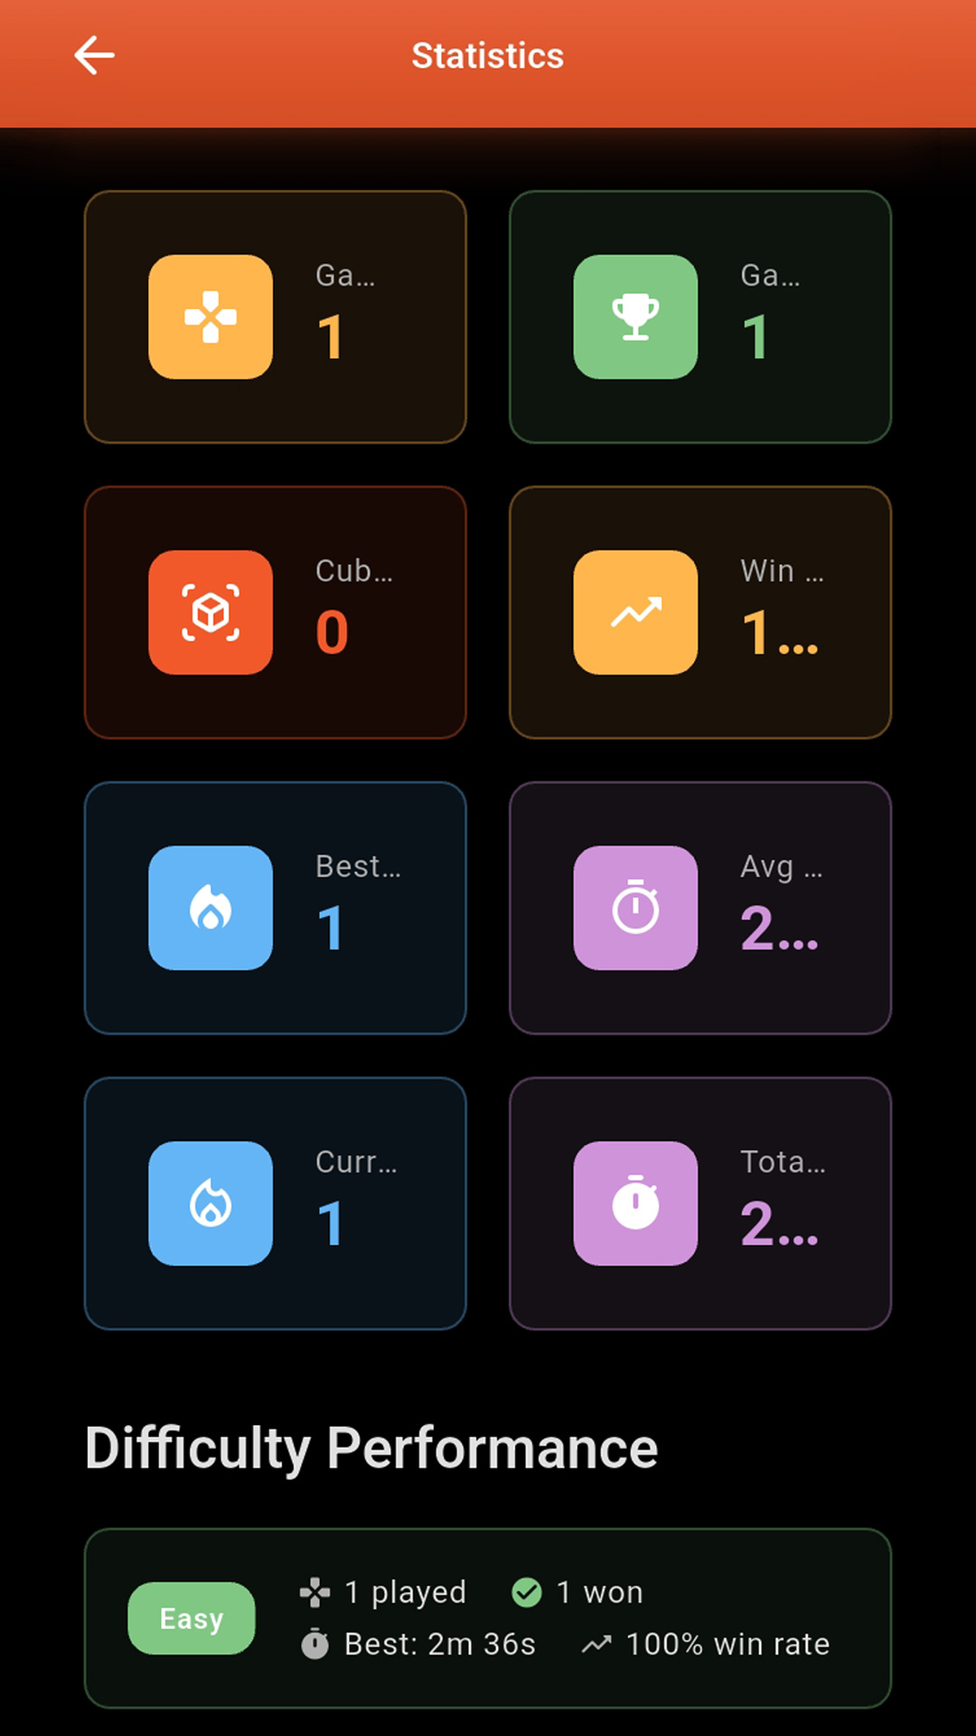
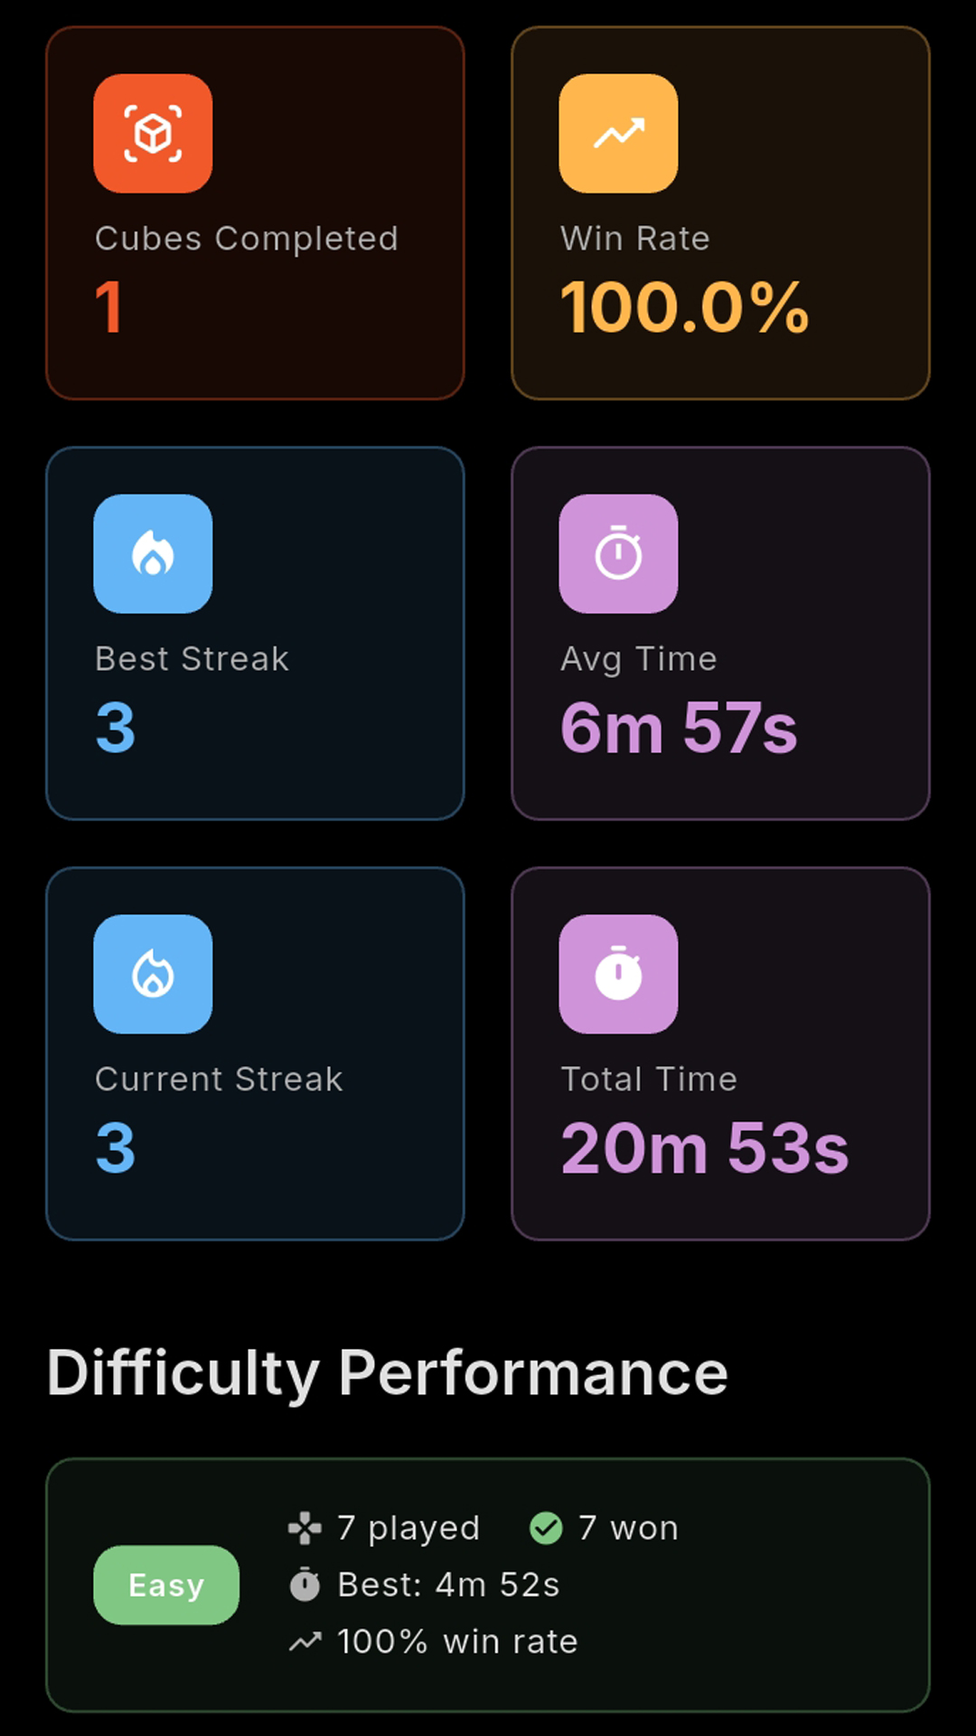
Record production submission; add Play Console answer sheet
1.0.0+4 was submitted for production review on 2026-09-26 (all
countries, managed publishing off, Google Play Games on PC opted out).

- PLAY_CONSOLE_ANSWERS.md: every Play Console answer, checked against
  the release build (no INTERNET or AD_ID permission, no SDKs that
  collect data), with the submission status.
- Retaken statistics screenshot with the fixed tiles; status bar
  painted out of the second cube screenshot.
- Full description mentions technique-graded difficulty.
- todolist.md and whatitis.md updated to match Play Console.

diff --git a/store_listing/PLAY_CONSOLE_ANSWERS.md b/store_listing/PLAY_CONSOLE_ANSWERS.md
@@ -1,0 +1,199 @@
+# Play Console answers — M6 3D Sudoku
+
+Every answer needed to get `com.msixv.m6sudoku` from internal testing to a
+production review, in the order Play Console's **Dashboard › Set up your
+app** list presents them. Listing text and artwork are in
+`PLAY_STORE_LISTING.md`.
+
+## Status (updated 2026-09-26, after submission)
+
+Developer account: **MSIXV** (organisation), signed in as tech@msixv.com at
+`https://play.google.com/console/u/2`.
+
+| Step | State |
+|---|---|
+| 0. Before you start | ✅ Production access confirmed, no verification banner |
+| 1. App content | ✅ All 10 declarations done, answers match this sheet |
+| 2. Store settings | ✅ Done: phone number removed, tags added |
+| 3. Main store listing | ✅ Done: cube screenshot first, updated description |
+| 4. Production release | ✅ All countries; version code 4 (1.0.0); `en-GB` notes |
+| 5. Send for review | ✅ **Submitted 2026-09-26** |
+
+Decisions made at submission:
+- **Google Play Games on PC:** opted out.
+- **Managed publishing:** left **off** on purpose, so the app goes live
+  automatically as soon as Google approves it.
+
+**Facts the answers rely on** (checked against the `1.0.0+4` release build,
+2026-09-26):
+
+- The release manifest requests **no** `INTERNET` and **no** `AD_ID`
+  permission. Its only permission is Android's internal
+  `DYNAMIC_RECEIVER_NOT_EXPORTED_PERMISSION`.
+- There are no analytics, crash reporting, ads, in-app purchase, sign-in,
+  location or sharing SDKs. Games, stats and settings are stored only on the
+  device (`shared_preferences`).
+- The only outbound actions are Settings links (privacy policy, terms,
+  support, Rate App) that open in the phone's own browser.
+
+If a future update adds AdMob or Crashlytics, the **Ads**, **Advertising
+ID** and **Data safety** answers below must change in that same update.
+
+---
+
+## 0. Before you start
+
+- [x] **Dashboard / Test and release › Production:** it shows **Create new
+      release**. No closed test or "apply for production access" needed.
+- [x] No account-verification banner.
+- [ ] `support@msixv.com` exists and someone reads it. Play shows it
+      publicly and may email it during review.
+
+## 1. App content (Policy › App content)
+
+### Privacy policy
+`https://msixv.com/games/m6-3d-sudoku/privacy-policy/`
+
+Use the app-specific page, not the studio-wide one; the studio-wide wording
+about ads and telemetry contradicts the Data safety answers below.
+
+### App access
+**All functionality in my app is available without any access
+restrictions.** No login, no membership, no location or age gate.
+
+### Ads
+**No, my app does not contain ads.**
+
+### Content rating
+- Email: `support@msixv.com`
+- Category: **Game** (or "All other app types" if Game isn't offered. It's a
+  puzzle game either way.)
+- Answer **No** to every question: violence, blood, fear/horror, sexual
+  content, nudity, crude humour, profanity, drugs, alcohol, tobacco,
+  gambling or simulated gambling, and so on.
+- Miscellaneous:
+  - Users can interact or exchange content: **No**
+  - Shares the user's location with others: **No**
+  - Allows purchase of digital goods: **No**
+  - Unrestricted internet access or web browser: **No**. The Settings links
+    open the phone's own browser; the app has no browser or network access.
+  - Is a news or educational app: **No**
+- Expected result: **IARC 3+ / PEGI 3 / ESRB Everyone / USK 0**. Click
+  **Apply rating**.
+
+### Target audience and content
+- Age groups: **13–15, 16–17, 18 and over**. Leave every under-13 group
+  unticked. Including under-13s puts the app under the Families policy,
+  which restricts the ads planned for v1.1.
+- "Could your store listing unintentionally appeal to children?" **No.**
+  The listing is a plain puzzle game. If Play pushes back because of the
+  mascot, answer honestly; worst case, the Families policy applies.
+
+### News app
+**No.**
+
+### Data safety
+- Does your app collect or share any of the required user data types?
+  **No.**
+- Play then skips the security and deletion questions. The summary should
+  read **"No data collected · No data shared"**. Submit.
+- Why this is accurate: data kept only on the device and never sent off it
+  isn't "collected" under Play's definition, and the app has no network
+  permission to send anything.
+
+### Advertising ID
+Does your app use advertising ID? **No.** (No `AD_ID` permission in the
+release manifest.)
+
+### Government apps
+**No.**
+
+### Financial features
+**My app doesn't provide any financial features.**
+
+### Health
+**My app does not have any health features.**
+
+Anything else listed under App content, such as photo/video permissions,
+foreground services or exact alarms: **not applicable / No**. The app
+declares none of those permissions.
+
+## 2. Store settings (Grow users › Store presence › Store settings)
+
+- App or game: **Game**
+- Category: **Puzzle**
+- Tags (up to 5, from Play's list): Sudoku, Logic, Brain games, and any of
+  Puzzle, Single player, Offline that are offered
+- Email: `support@msixv.com`
+- Website: optional. Currently set to `https://msixv.com`.
+- Phone: optional. **Removed** (2026-09-26); it would be shown publicly.
+- External marketing: your choice. On is the default and is harmless.
+
+## 3. Main store listing (Grow users › Store presence › Main store listing)
+
+Paste and upload from `PLAY_STORE_LISTING.md`:
+
+- **App name:** `M6 3D Sudoku: Cube Puzzles`
+- **Short description:** from the doc (78 characters)
+- **Full description:** from the doc (2,055 characters)
+- **App icon:** `images/m6_sudoku_logo.png` (512×512, no alpha)
+- **Feature graphic:** `images/m6-sudoku-feature-graphic.jpg` (1024×500)
+- **Phone screenshots**, in this order:
+  1. `images/Screenshot_3d_cube.jpg`
+  2. `images/Screenshot_3d_cube-2.jpg` (status bar now removed)
+  3. `images/Screenshot_game_play.jpg`
+  4. `images/Screenshot_homescreen_dark_mode.jpg`
+  5. `images/Screenshot_daily-challenge.jpg`
+  6. **Your new statistics screenshot.** Take it on `1.0.0+4` after a few
+     finished games, so the tiles show real numbers, not "Ga…" or "Cub…".
+     Don't upload the old `Screenshot_statistics.jpg`.
+- Tablet screenshots: optional. Skip for now.
+
+**As submitted (2026-09-26):** 6 screenshots with a 3D cube one first,
+then home (dark), classic game, daily challenge, select difficulty and
+statistics (fixed tiles). The full description is the updated version from
+`PLAY_STORE_LISTING.md`, and store tags are set.
+- Video: optional. Skip.
+
+## 4. Production release (Test and release › Production)
+
+1. **Countries / regions** tab: add the countries to launch in. Choosing all
+   is simplest; the app has no region-specific content.
+2. **Create new release**, then **Add from library**, and pick version code
+   **4 (1.0.0)**. That's the bundle already on internal testing. Don't
+   rebuild or re-upload it; its debug symbols carry over.
+3. Release notes. The tag must match the listing's default language,
+   **English (United Kingdom)**:
+   ```
+   <en-GB>
+   First release of M6 3D Sudoku: classic Sudoku with five technique-graded difficulties, plus 3D Cube Sudoku — six puzzles on a cube you can spin. Daily challenges, hints that teach, achievements and statistics. No account, no ads, works offline.
+   </en-GB>
+   ```
+4. **Rollout:** if Play offers a rollout percentage, start at **20%**. Play
+   may require a first production release to go to 100%; that's fine for a
+   new app with no users yet.
+5. **Next**, then check the warnings. "No deobfuscation file" is expected
+   and harmless: the Dart code is obfuscated with Flutter's own
+   `--split-debug-info`, not R8 mapping. Then **Save**.
+
+## 5. Send for review (Publishing overview)
+
+- **Before submitting, go to Test and release › Advanced settings › Form
+  factors and opt out of Google Play Games on PC** (done 2026-09-26). PC review expects mouse and keyboard support and resizable windows,
+  and this touch-first app hasn't been tested on PC. Opting in later is
+  easy; a PC-related rejection would delay the whole first review.
+
+- Optional but recommended: turn on **Managed publishing**. Once Google
+  approves, the release waits for you to press **Publish**, instead of
+  going live automatically at a random moment.
+- Click **Send N changes for review**.
+- The first review usually takes a few days to about a week. Watch the
+  inbox of your developer account email, plus `support@msixv.com`, for
+  policy questions.
+
+## 6. After approval
+
+- Publish (if managed publishing is on).
+- Watch **Quality › Android vitals** for crashes and ANRs for a few days;
+  if clean, raise the rollout toward 100%.
+- The next upload must be version code **5** or higher (`1.0.0+5`).

diff --git a/todolist.md b/todolist.md
@@ -1,7 +1,7 @@
 # Going live on Google Play — M6 3D Sudoku
 
-Package `com.msixv.m6sudoku` · version `1.0.0+4` (live on internal testing) ·
-last updated 2026-09-26
+Package `com.msixv.m6sudoku` · version `1.0.0+4` · **submitted for production
+review 2026-09-26** · last updated 2026-09-26
 
 `[x]` done · `[ ]` to do · ⚠ needs checking
 
@@ -11,8 +11,10 @@ last updated 2026-09-26
 
 - [x] Google Play Console developer account (organisation — so **no**
       12-tester / 14-day closed-test requirement)
-- [ ] ⚠ Confirm the organisation account is fully verified (D-U-N-S,
-      identity, contact details) — Play Console shows a banner if not
+- [x] Organisation account ("MSIXV", signed in as tech@msixv.com at
+      `play.google.com/console/u/2`) — no verification banner; Play says
+      all its apps are registered for Android developer verification
+      (checked 2026-09-26)
 - [x] Upload keystore exists (`android/app/keystore/upload-keystore.jks`,
       passwords in `android/key.properties`, both untracked)
 - [ ] **Back up the keystore + passwords outside the repo** (password
@@ -65,9 +67,10 @@ last updated 2026-09-26
 - [x] 3D cube screenshots added and placed first
 - [x] Fixed the truncated statistics tiles ("Ga…", "Cub…", "1…") seen in
       the statistics screenshot
-- [ ] **Retake the statistics screenshot** on a build with that fix
-- [ ] Crop the status bar off `Screenshot_3d_cube-2.jpg` (or retake with
-      notifications cleared)
+- [x] Statistics screenshot retaken — the one in Play Console already shows
+      the fixed, untruncated tiles
+- [x] Removed the status bar from `Screenshot_3d_cube-2.jpg` (painted out,
+      still 1080×1920)
 - [x] Feature graphic redone with the "M6 3D Sudoku" logotype and cube
       (`store_listing/images/`, 2026-09-26)
 - [x] `https://msixv.com/games/privacy-policy` is live (checked 2026-09-25)
@@ -79,27 +82,37 @@ last updated 2026-09-26
       (HTTP 200, 2026-09-25) — content not reviewed
 - [x] Fixed Settings › Rate App linking to the old `com.m6.sudoku` ID
       (from `1.0.0+3`)
-- [ ] Choose a public support email address
+- [x] Public support email: **support@msixv.com** (make sure the mailbox
+      exists)
+- [x] Full description mentions technique-graded difficulty (in
+      `PLAY_STORE_LISTING.md` only — optional to paste into Play, which
+      still has the earlier 1,953-character version)
+- [x] Cube screenshot moved to the front in Play; updated full description
+      (with the technique-grading line) pasted into Play; store tags added
 
 ## 5. Play Console setup
 
+All checked in Play Console on 2026-09-26 (read-only review). Answers are in
+`store_listing/PLAY_CONSOLE_ANSWERS.md`.
+
 - [x] Create the app: "M6 3D Sudoku: Cube Puzzles", **Game**, **Free**
-- [ ] ⚠ Confirm production access: **Test and release › Production** should
-      offer **Create new release**. If it asks for a closed test or to
-      "apply for production access", the account is classed as personal
-      and the 12-tester / 14-day closed test applies after all
-- [ ] Main store listing: paste text, upload icon, feature graphic,
-      screenshots
-- [ ] Category: **Game › Puzzle**; contact email; privacy policy URL
-      `https://msixv.com/games/m6-3d-sudoku/privacy-policy/`
-- [ ] App access: all functionality available without login
-- [ ] Ads: **No** (change to Yes in the update that adds AdMob)
-- [ ] Content rating questionnaire (expect Everyone / PEGI 3)
-- [ ] Target audience: **13+** (avoids the Families policy, which would
-      restrict ads later)
-- [ ] Data safety: no data collected, no data shared
-- [ ] Advertising ID declaration: **No**
-- [ ] Government apps / financial features / health: No
+- [x] Production access: **Production** offers **Create new release** — no
+      closed-test / "apply for production access" requirement
+- [x] Default store listing (en-GB): name, short and full description,
+      icon, feature graphic, 6 phone screenshots — "Ready to send for review"
+- [x] Store settings: **Game › Puzzle**, support@msixv.com, website
+      https://msixv.com, phone number
+- [x] Phone number removed from the public store listing (email and
+      website kept)
+- [x] App content — all 10 declarations done, "Ready to send for review":
+      privacy policy (app-specific URL), sign-in (no special access), ads
+      (No), content rating, target audience (13–15, 16–17, 18+), data
+      safety (no data collected or shared), advertising ID (No), government
+      apps (No), financial features (none), health (none)
+- [x] Opted out of **Google Play Games on PC** (Advanced settings › Form
+      factors) — touch-first app, untested on PC; revisit later if wanted
+- [x] Managed publishing deliberately left **off** — the app goes live
+      automatically as soon as Google approves it
 
 ## 6. Internal testing
 
@@ -123,15 +136,21 @@ last updated 2026-09-26
 - [ ] On `1.0.0+4`: Evil New Game loads instantly, consecutive New Games
       differ, 3D cube starts quickly
 - [ ] Play through both modes
-- [ ] Review the pre-launch report for crashes
+- [ ] Pre-launch report: none exists — Play only generates them for
+      closed/open testing tracks, not internal. Not required for review
 
 ## 7. Go live
 
-- [ ] Promote the tested build to **Production**
-- [ ] Use a **staged rollout** — start at 10–20%
-- [ ] Submit for review (first review: a few days to about a week).
-      Internal testing isn't reviewed; the first production release is.
-      Needs every Play Console setup item in §5 done first
+- [x] **Production › Countries/regions**: all countries and regions
+- [x] **Production › Create new release** › Add from library › version
+      code **4 (1.0.0)**, release notes (`en-GB`)
+- [x] **Submitted for review 2026-09-26** (Publishing overview). First
+      review usually takes a few days to about a week; with managed
+      publishing off it goes live in all countries on approval
+- [ ] Watch tech@msixv.com and support@msixv.com for Google's approval or
+      policy questions; if rejected, check **Policy status** for the reason
+- [ ] Once live: install from the public Play listing and check the store
+      page (name, screenshots, description) looks right
 - [ ] Watch **Android vitals** (crash and ANR rates); ramp to 100% if clean
 
 ---

diff --git a/whatitis.md b/whatitis.md
@@ -118,7 +118,7 @@ CI (`ci.yml`, runs on every push/PR to main/master) pins Flutter 3.29.3, generat
 - **iOS/macOS/Windows/Linux platform folders exist** in the repo (standard Flutter scaffolding) despite `pubspec.yaml`/CI only really targeting Android+Web and the changelog listing those as future work — likely dormant scaffolding rather than actively maintained targets; worth flagging as ambiguous rather than assuming intent.
 - **No `.env`/secrets/API keys found** anywhere in `lib/` — the app is entirely offline/local-storage-based, which is consistent with its scope (no backend needed) but means anything like cloud sync or leaderboards would be a substantial new addition, not a config change.
 - **Two parallel game engines by design, not duplication**: `sudoku` and `cube_sudoku` intentionally each have their own domain/data/presentation stack (confirmed via router comment: "a new mode alongside the regular game, not a replacement for it"), so overlapping-looking code (e.g., two achievement usecases, two local datasources) is an intentional feature boundary rather than an accidental copy-paste.
-- **Release status (as of 2026-09-26):** `1.0.0+4` (the generation/grading work below) is live on the Play Console **internal testing** track; production isn't submitted yet. Uploads are still manual — CI upload needs the not-yet-configured `PLAY_SERVICE_ACCOUNT_JSON`. Version codes 1, 3 and 4 have been uploaded, so the next build must be `1.0.0+5` or higher. The branch work was merged into `main` via PR #1 (2026-09-26). The Play account is an organisation account, so the 12-tester / 14-day closed-test rule shouldn't apply — production can be submitted directly once Play Console setup is complete (still to confirm in Play Console). Store listing copy, the app-specific privacy policy draft and store artwork live in `store_listing/` (artwork in `store_listing/images/`, deliberately outside `assets/` so it isn't bundled into the app — only the logotype, mascot and launcher-icon source remain in `assets/images/`). `todolist.md` is the running go-live checklist.
+- **Release status (as of 2026-09-26):** `1.0.0+4` (the generation/grading work below) is on the Play Console **internal testing** track and was **submitted for production review on 2026-09-26** (all countries, managed publishing off — it goes live automatically on approval; Google Play Games on PC opted out). Every Play Console answer is recorded in `store_listing/PLAY_CONSOLE_ANSWERS.md`. Uploads are still manual — CI upload needs the not-yet-configured `PLAY_SERVICE_ACCOUNT_JSON`. Version codes 1, 3 and 4 have been uploaded, so the next build must be `1.0.0+5` or higher. The branch work was merged into `main` via PR #1 (2026-09-26). The Play account is the **MSIXV organisation account** (tech@msixv.com, `play.google.com/console/u/2`), so no closed-test requirement applied. Store listing copy, the app-specific privacy policy draft and store artwork live in `store_listing/` (artwork in `store_listing/images/`, deliberately outside `assets/` so it isn't bundled into the app — only the logotype, mascot and launcher-icon source remain in `assets/images/`). `todolist.md` is the running go-live checklist.
 - **Native debug symbols need a manual step:** Flutter's engine `libflutter.so` ships pre-stripped and `--split-debug-info` strips `libapp.so`, so AGP's `ndk.debugSymbolLevel` produces nothing. The `1.0.0+3` symbols zip was assembled by hand from Google's published engine symbols (`storage.googleapis.com/flutter_infra_release/flutter/<engine hash>/android-*-release/symbols.zip`) plus `build/symbols/app.android-*.symbols`, stripped to symbol tables with the NDK's `llvm-objcopy --strip-debug`, after checking every ELF build ID against the uploaded AAB. Not yet automated in `release.yml`.
 - **Statistics screen layout fix:** the overview tiles put the icon beside the text, which on a ~360dp phone left ~36dp for label and value, so everything was ellipsized ("Ga…", "Cub…"). Tiles now stack icon above text with a `FittedBox`-scaled value, and the Difficulty Performance rows use a `Wrap` so large numbers or larger system font sizes can't overflow.
 - **Puzzle generation (fixed in `1.0.0+4`):** Evil could sit on "Generating puzzle" for minutes (67–105 s on a Mac, worse on a phone) — its 20-clue target was almost never reachable, so all 200 removal attempts ran, each re-checking uniqueness with an unordered search over allocation-heavy `Board`/`Cell` objects. The uniqueness check now only asks whether the removed cell could hold a different digit (valid because the grid is unique before each removal), using an MRV search over plain bitmasks (`_BitGrid` in `puzzle_generator.dart`): same answers, so seeded output is byte-identical, ~100× faster. Unseeded generation also stops after `PuzzleGenerator.unseededTimeBudget` (2 s); seeded generation ignores the budget so the daily stays device-independent. Evil's clue target is 21.

diff --git a/store_listing/PLAY_STORE_LISTING.md b/store_listing/PLAY_STORE_LISTING.md
@@ -25,13 +25,10 @@ pre-rebrand UI and are no longer used.
 
 **Before uploading:**
 
-- **Retake screenshot 6.** It was captured before the statistics tiles
-  were fixed, and every label and value is truncated ("Ga…", "Cub…",
-  "1…").
-- **Screenshot 2 shows the phone's status bar** (clock, a WhatsApp
-  notification icon, signal, 71% battery). Not a policy issue, but it
-  looks unpolished next to screenshot 1; crop the top ~110px or retake
-  with notifications cleared.
+- ~~Screenshot 6~~ retaken 2026-09-26 with the fixed, untruncated
+  statistics tiles (1080×1920); the same image is in Play Console.
+- ~~Screenshot 2 status bar~~ painted out 2026-09-26 (same 1080×1920
+  size, background-matched, so nothing else shifts).
 - ~~Feature graphic~~ redone 2026-09-26: "M6 3D Sudoku" logotype, cube,
   daily challenge and dark home screen.
 
@@ -57,7 +54,7 @@ Classic Sudoku plus a 3D cube of six puzzles. Daily challenges, hints & stats.
 
 ## Full description
 
-(4,000 characters max — this one is 1,953)
+(4,000 characters max — this one is 2,055)
 
 ```
 Sudoku, now in three dimensions.
@@ -75,6 +72,7 @@ M6 3D Sudoku gives you everything you expect from a great Sudoku game, plus some
 CLASSIC SUDOKU
 • Traditional 9×9 puzzles with a guaranteed single solution
 • Five difficulty levels: Easy, Medium, Hard, Expert and Evil
+• Every puzzle graded by the solving techniques it needs, from simple singles up to X-Wing and beyond
 • Notes mode for pencilling in candidates
 • Undo and erase whenever you change your mind
 • Highlighting for the selected row, column and box, and for mistakes
@@ -105,6 +103,8 @@ Download M6 3D Sudoku and start solving.
 
 Claims were checked against the code (five difficulties incl. Evil,
 per-face cube difficulty, drag/twist gestures, technique-naming hints,
+technique-graded puzzle bank (Hard = locked candidates, Expert up to
+X-Wing, Evil beyond),
 auto-save/resume, stats incl. win rate and best times). It deliberately
 says nothing about ads, so it stays accurate once AdMob is added — at
 that point only the "Contains ads" declaration needs changing.
@@ -114,9 +114,9 @@ that point only the "Contains ads" declaration needs changing.
 - **App category:** Game › Puzzle
 - **Tags:** Sudoku, Logic, Brain games (pick from Play's list)
 - **Privacy policy:** https://msixv.com/games/m6-3d-sudoku/privacy-policy/
-- **Email:** required — use a support address, it's shown publicly
+- **Email:** support@msixv.com (shown publicly — make sure the mailbox exists)
 
 ## Still outstanding for submission
 
-Data safety form, content rating questionnaire, target audience (13+),
-and the internal testing upload — see docs/DEPLOYMENT.md §8.
+Every Play Console answer (store listing, App content forms, production
+release) is in `PLAY_CONSOLE_ANSWERS.md`.
